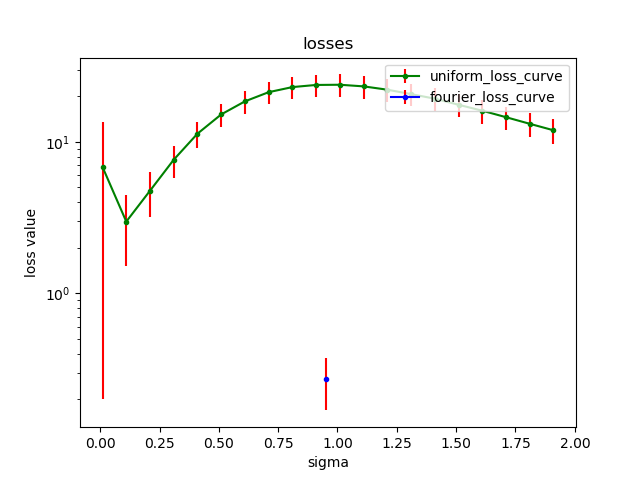
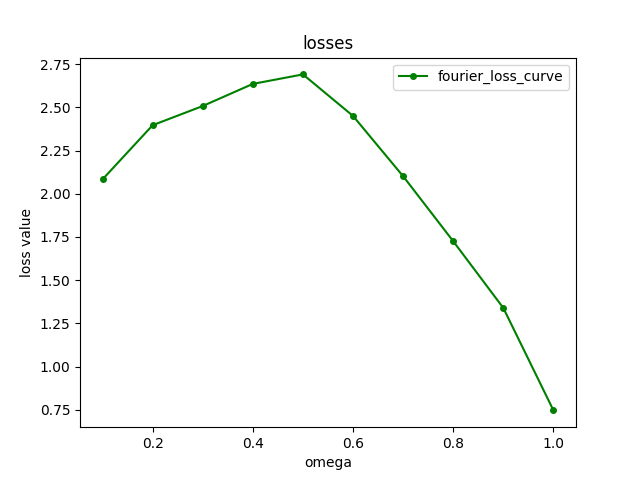
updated part - easy running

diff --git a/basic_loss_plots.py b/basic_loss_plots.py
@@ -1,27 +1,6 @@
 from utils import *
 
 
-def sample_normal_distribution_with_different_kurtosis(alpha, dim, batch_size):
-    mean = np.full(shape=dim, fill_value=1.0)
-    cov = np.eye(dim, dim)
-    normal_data = np.random.multivariate_normal(mean, cov, size=(batch_size), check_valid='warn', tol=1e-8)
-    abs_normal_data = np.abs(normal_data)
-    signed_normal_data = normal_data / abs_normal_data
-    changed_kurtosis_data = np.multiply(signed_normal_data, np.float_power(abs_normal_data, alpha))
-    return changed_kurtosis_data
-
-
-def sample_one_dim_mixture_of_normal_distributions(batch_size):
-    sampled_matrix = np.random.rand(batch_size, 1)
-    normal_spots = sampled_matrix < 0.8
-    number_of_normals = np.sum(normal_spots)
-    sampled_matrix[normal_spots] = np.random.normal(size=number_of_normals)
-
-    sampled_matrix[~normal_spots] = np.random.normal(loc=-0.3, scale=2.0, size=batch_size-number_of_normals)
-
-    return sampled_matrix
-
-
 def get_uniform_test_funcs(sigma, normal_data):
     test_funcs = []
     grid = get_uniform_grid(NUMBER_OF_TEST_FUNCS, CRITICAL_NORMAL_PART_RADIUS)
@@ -90,45 +69,61 @@ def generate_grid_loss_curve(grid_type, normal_data):
 
 def calc_fourier_loss(sampled_points, omegas, expected_moments):
     cur_moments = np_calc_one_dim_fourier_moments(sampled_points, omegas)
-    moments_diff = [np.math.pow((expected_moments[i] - cur_moments[i])/expected_moments[i], 2) for i in range(len(omegas))]
+    if relative_error:
+        moments_diff = [(expected_moments[i] - cur_moments[i])/expected_moments[i] for i in range(len(omegas))]
+    else:
+        moments_diff = [expected_moments[i] - cur_moments[i] for i in range(len(omegas))]
     return np.sum(moments_diff)
 
 
 def generate_one_dim_fourier_loss_curve(grid_type, normal_data, number_of_funcs):
-    dist_between_omegas = 1.0 / number_of_funcs
-    possible_omegas = [np.arange(0.1, 1.0, dist_between_omegas)]
-
     loss_list = []
     std_list = []
 
-    for omegas in possible_omegas:
-        print(omegas)
-        expected_moments = np_calc_one_dim_fourier_moments(normal_data, omegas)
+    possible_omegas = np.arange(0, 1.1, 0.1)
+    # possible_omegas = np.arange(0, 5, 0.1)
+    # possible_omegas = [3.0]
+    # possible_omegas = [0.5]
+
+    for omega in possible_omegas:
+        print(omega)
+        expected_moments = np_calc_one_dim_fourier_moments(normal_data, [omega])
         cur_omegas_loss = []
         for i in range(RUNNING_REPITITIONS):
-            # high_kurtosis_data = sample_normal_distribution_with_different_kurtosis(alpha=1.5, dim=1,
-            #                                                                         batch_size=TRAINING_BATCH_SIZE)
-            high_kurtosis_data = sample_one_dim_mixture_of_normal_distributions(TRAINING_BATCH_SIZE)
-            cur_omegas_loss.append(calc_fourier_loss(high_kurtosis_data, omegas, expected_moments))
+            different_distribution_data = different_distribution_samples(TRAINING_BATCH_SIZE)
+            # cur_omegas_loss.append(np_calc_one_dim_fourier_moments(different_distribution_data, [omega]))
+            cur_omegas_loss.append(calc_fourier_loss(different_distribution_data, [omega], expected_moments))
 
-        mean_sigma_loss = np.mean(cur_omegas_loss)
-        loss_list.append(mean_sigma_loss)
-        std_sigma_loss = np.std(cur_omegas_loss)
-        std_list.append(std_sigma_loss)
+        mean_omega_loss = np.abs(np.mean(cur_omegas_loss))
+        loss_list.append(mean_omega_loss)
+        std_omega_loss = np.std(cur_omegas_loss)
+        std_list.append(std_omega_loss)
 
-    return (0.95, loss_list, std_list, grid_type + "_loss_curve")
+        if divide_by_std:
+            loss_list[-1] /= std_omega_loss
+
+        print(std_omega_loss)
+
+    return (possible_omegas, loss_list, std_list, grid_type + "_loss_curve")
 
 
 def calc_one_dim_uniform_grid_loss(sampled_points, sigma, uniform_grid, expected_moments):
     cur_moments = np_calc_one_dim_uniform_grid_moments(sampled_points, sigma, uniform_grid)
-    moments_diff = [np.math.pow((expected_moments[i] - cur_moments[i])/expected_moments[i], 2) for i in range(len(uniform_grid))]
+    if relative_error:
+        moments_diff = [(expected_moments[i] - cur_moments[i])/expected_moments[i] for i in range(len(uniform_grid))]
+    else:
+        moments_diff = [expected_moments[i] - cur_moments[i] for i in range(len(uniform_grid))]
     return np.sum(moments_diff)
 
 
 def generate_one_dim_uniform_loss_curve(grid_type, normal_data, number_of_funcs):
-    dist_between_omegas = 6.0 / number_of_funcs
-    uniform_grid = np.arange(-3, 3, dist_between_omegas)
-    possible_sigmas = np.arange(0.01, 2.0, 0.1)
+    # dist_between_sigmas = 6.0 / number_of_funcs
+    # uniform_grid = np.arange(-3, 3, dist_between_sigmas)
+    # possible_sigmas = np.arange(0.2, 2.0, 0.1)
+
+    # uniform_grid = np.arange(-3, 3, 0.1)
+    uniform_grid = [0]
+    possible_sigmas = np.arange(0.05, 5.0, 0.1)
 
     loss_list = []
     std_list = []
@@ -139,15 +134,17 @@ def generate_one_dim_uniform_loss_curve(grid_type, normal_data, number_of_funcs)
         expected_moments = np_calc_one_dim_uniform_grid_moments(normal_data, sigma, uniform_grid)
 
         for i in range(RUNNING_REPITITIONS):
-            # high_kurtosis_data = sample_normal_distribution_with_different_kurtosis(alpha=1.5, dim=1,
-            #                                                                         batch_size=TRAINING_BATCH_SIZE)
-            high_kurtosis_data = sample_one_dim_mixture_of_normal_distributions(TRAINING_BATCH_SIZE)
-            cur_sigma_loss.append(calc_one_dim_uniform_grid_loss(high_kurtosis_data, sigma, uniform_grid, expected_moments))
+            different_distribution_data = different_distribution_samples(TRAINING_BATCH_SIZE)
+            cur_sigma_loss.append(calc_one_dim_uniform_grid_loss(different_distribution_data, sigma, uniform_grid, expected_moments))
 
-        mean_sigma_loss = np.mean(cur_sigma_loss)
+        mean_sigma_loss = np.abs(np.mean(cur_sigma_loss))
         loss_list.append(mean_sigma_loss)
         std_sigma_loss = np.std(cur_sigma_loss)
         std_list.append(std_sigma_loss)
+
+        if divide_by_std:
+            loss_list[-1] /= std_sigma_loss
+        # print(std_sigma_loss)
 
     return (possible_sigmas, loss_list, std_list, grid_type + "_loss_curve")
 
@@ -167,15 +164,23 @@ def main():
     # print("------------------------------Generating Normal loss plot------------------------------")
     # curves_list.append(generate_grid_loss_curve("normal_heuristic", normal_data))
 
-    print("------------------------------Generating Uniform loss plot------------------------------")
-    curves_list.append(generate_one_dim_uniform_loss_curve("uniform", normal_data, number_of_funcs))
-
-    print("------------------------------Generating Fourier loss plot------------------------------")
-    curves_list.append(generate_one_dim_fourier_loss_curve("fourier", normal_data, number_of_funcs))
+    if run_gaus:
+        print("------------------------------Generating Uniform loss plot------------------------------")
+        curves_list.append(generate_one_dim_uniform_loss_curve("gaus", normal_data, number_of_funcs))
+    if run_fourier:
+        print("------------------------------Generating Fourier loss plot------------------------------")
+        curves_list.append(generate_one_dim_fourier_loss_curve("fourier", normal_data, number_of_funcs))
 
     print("------------------------------Drawing Normal loss plot------------------------------")
-    plot_graph(curves_list, "losses", "sigma", "loss value")
+    plot_graph(curves_list, "losses", x_label, "loss value")
 
-
+# for i in range(5):
+#     data = different_distribution_samples(TRAINING_BATCH_SIZE)
+#     plt.hist(data)
+#     plt.show()
+# for i in range(5):
+#     data = np.random.normal(size=TRAINING_BATCH_SIZE)
+#     plt.hist(data)
+#     plt.show()
 
 main()

diff --git a/utils.py b/utils.py
@@ -8,9 +8,9 @@ OUTPUT_DIM = 2
 
 # Optimization parameters
 NUMBER_OF_TEST_FUNCS = 25
+TRAINING_BATCH_SIZE = 100
 NORMAL_POINTS_NUM = 32000
 CRITICAL_NORMAL_PART_RADIUS = 3.0
-TRAINING_BATCH_SIZE = 320
 TESTING_BATCH_SIZE = 32
 TRAINING_BATCHES = 2000
 TRAIN_SIZE = TRAINING_BATCH_SIZE * TRAINING_BATCHES
@@ -19,15 +19,12 @@ TEST_SIZE = 100 * TESTING_BATCH_SIZE
 # Visualization parameters
 TEST_PLOT_EXAMPLES_SIZE = 320
 
-# Other parameters
-RUNNING_REPITITIONS = 1000
-
 
 def plot_graph(curves_list, title, x_label, y_label, axis=False, x_min=None, x_max=None, y_min=None, y_max=None):
     plt.title(title)
     plt.xlabel(x_label)
     plt.ylabel(y_label)
-    plt.yscale('log')
+    # plt.yscale('log')
     for i, (curve_x, curve_y, std, label) in enumerate(curves_list):
         if i == 0:
             line_color = 'g'
@@ -43,8 +40,10 @@ def plot_graph(curves_list, title, x_label, y_label, axis=False, x_min=None, x_m
             "too many curves"
             exit(1)
 
-        plt.errorbar(curve_x, curve_y, std, fmt='o-'+line_color, label=label, ecolor='red', markersize=3)
-        # plt.plot(curve_x, curve_y, 'ro', label=label, markersize=3)
+        if divide_by_std:
+            plt.plot(curve_x, curve_y, 'o-'+line_color, label=label, markersize=4)
+        else:
+            plt.errorbar(curve_x, curve_y, std, fmt='o-'+line_color, label=label, ecolor='red', markersize=4)
         # plt.plot(curve_x, curve_y, 'ro', label=label)
         if axis:
             plt.axis([x_min, x_max, y_min, y_max])
@@ -54,9 +53,9 @@ def plot_graph(curves_list, title, x_label, y_label, axis=False, x_min=None, x_m
     plt.clf()
 
 
-def np_calc_moment(sampled_data, mu, sigma):
+def np_calc_one_dim_moment(sampled_data, mu, sigma):
     x = sampled_data - mu
-    x = np.sum(np.multiply(x, x), axis=1)
+    x = np.multiply(x, x)
     x = np.divide(x, 2 * (sigma**2))
     x = np.exp(-x)
     return np.mean(x, axis=0)
@@ -71,9 +70,9 @@ def np_calc_fourier_moment(sampled_data, omega):
 def np_calc_one_dim_fourier_moments(sampled_data, omegas):
     moments = []
     for omega in omegas:
-        if omega == 0:
-            print("Omega = 0")
-            exit(1)
+        # if omega == 0:
+        #     print("Omega = 0")
+        #     exit(1)
         moments.append(np_calc_fourier_moment(sampled_data, omega) / len(sampled_data))
     return moments
 
@@ -81,11 +80,31 @@ def np_calc_one_dim_fourier_moments(sampled_data, omegas):
 def np_calc_one_dim_uniform_grid_moments(sampled_data, sigma, grid):
     moments = []
     for mu in grid:
-        x = sampled_data / sigma
-        x = x + mu
-        x = np.sum(norm.pdf(x))
-        moments.append(x / len(sampled_data))
+        cur_moment = np_calc_one_dim_moment(sampled_data, mu, sigma)
+        moments.append(cur_moment)
     return moments
+
+
+def sample_normal_distribution_with_different_kurtosis(alpha, dim, batch_size):
+    # mean = np.full(shape=dim, fill_value=1.0)
+    # cov = np.eye(dim, dim)
+    # normal_data = np.random.multivariate_normal(mean, cov, size=(batch_size), check_valid='warn', tol=1e-8)
+    normal_data = np.random.normal(size=TRAINING_BATCH_SIZE)
+    abs_normal_data = np.abs(normal_data)
+    signed_normal_data = normal_data / abs_normal_data
+    changed_kurtosis_data = np.multiply(signed_normal_data, np.power(abs_normal_data, alpha))
+    return changed_kurtosis_data
+
+
+def sample_one_dim_mixture_of_normal_distributions(batch_size):
+    sampled_matrix = np.random.rand(batch_size, 1)
+    normal_spots = sampled_matrix < 0.8
+    number_of_normals = np.sum(normal_spots)
+    sampled_matrix[normal_spots] = np.random.normal(size=number_of_normals)
+
+    sampled_matrix[~normal_spots] = np.random.normal(loc=-0.3, scale=2.0, size=batch_size-number_of_normals)
+
+    return sampled_matrix
 
 
 def normalized_np_moments_loss(sampled_data, test_funcs, expected_moments):
@@ -95,8 +114,6 @@ def normalized_np_moments_loss(sampled_data, test_funcs, expected_moments):
     loss = 0
     for i in range(len(test_funcs)):
         loss += np.math.pow((np_calc_moment(sampled_data, test_funcs[i][0], test_funcs[i][1]) - expected_moments[i])/expected_moments[i], 2)
-        # if loss >= 100:
-        #     print("wow")
     return loss
 
 
@@ -115,3 +132,22 @@ def get_uniform_grid(total_points, radius):
 def normal_sigma_generator_heuristic(mu, scale_factor):
     sigma = (np.math.pow(np.linalg.norm(mu), 2) * scale_factor) + 0.05
     return sigma
+
+
+## Playground
+def different_distribution_samples(TRAINING_BATCH_SIZE):
+    # normal
+    # return sample_normal_distribution_with_different_kurtosis(alpha=1.0, dim=1, batch_size=TRAINING_BATCH_SIZE)
+    # high kurtosis
+    return sample_normal_distribution_with_different_kurtosis(alpha=2.0, dim=1, batch_size=TRAINING_BATCH_SIZE)
+    # mixture of gaussian
+    # return sample_one_dim_mixture_of_normal_distributions(TRAINING_BATCH_SIZE)
+
+
+divide_by_std = True
+relative_error = True
+run_fourier = True
+run_gaus = False
+x_label = "omega"
+# x_label = "sigma"
+RUNNING_REPITITIONS = 1000
